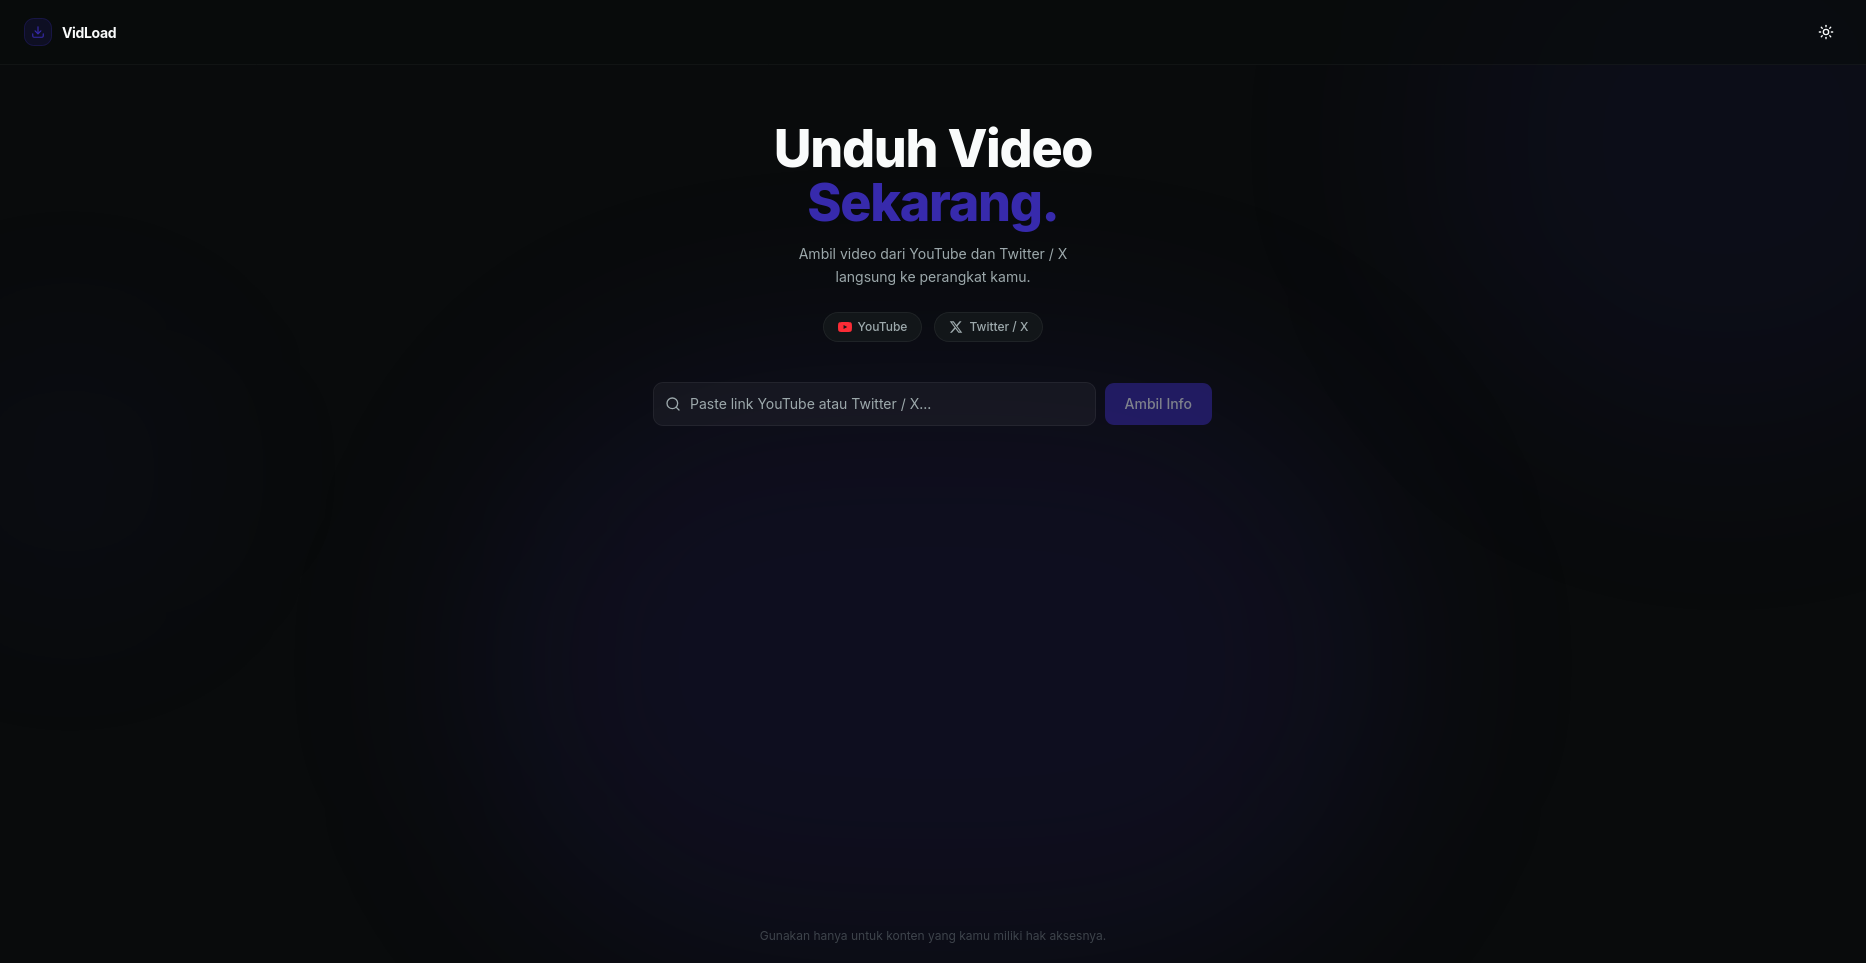
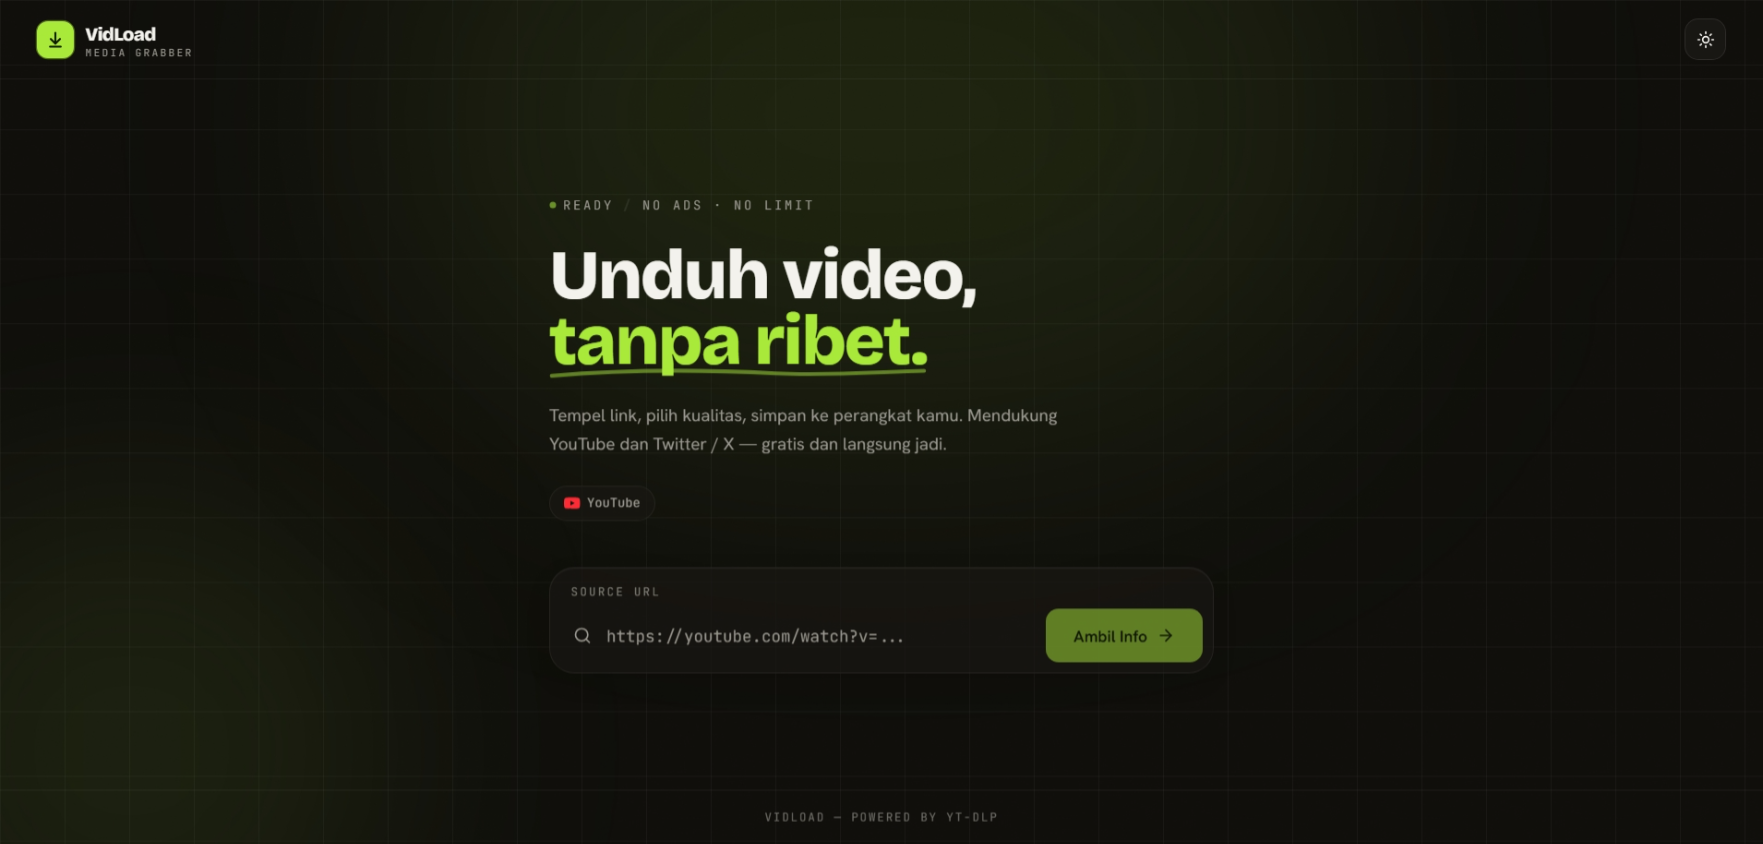
add new project

diff --git a/components/Hero.tsx b/components/Hero.tsx
@@ -125,9 +125,53 @@ export default function Hero() {
         {/* Project Showcase Section */}
         <div>
           <h2 className="text-2xl font-semibold mb-6 border-b border-neutral-700 pb-2">
-            Project Showcase
+            Projects
           </h2>
           <div className="grid grid-cols-1 md:grid-cols-2 gap-6">
+            <div className="border border-neutral-700 rounded-lg p-4 hover:border-neutral-500 transition-colors">
+              <div className="relative w-full h-32 bg-neutral-800 rounded mb-4 overflow-hidden">
+                <Image
+                  src="/beam-ss.png"
+                  alt="Beam Screenshot"
+                  fill
+                  className="object-cover"
+                />
+              </div>
+              <h3 className="text-lg font-medium mb-2">Beam</h3>
+              <p className="text-sm text-neutral-400 mb-3">
+                Send files directly between two devices over WebRTC. The browser
+                does the transfer peer-to-peer, the server only brokers the
+                WebRTC handshake. No uploads, no database, no files ever stored
+                on a server.
+              </p>
+              <div className="flex flex-wrap gap-2 mb-3">
+                <span className="px-2 py-1 bg-neutral-800 text-xs rounded">
+                  Next.js
+                </span>
+                <span className="px-2 py-1 bg-neutral-800 text-xs rounded">
+                  Node.js
+                </span>
+                <span className="px-2 py-1 bg-neutral-800 text-xs rounded">
+                  Websocket
+                </span>
+              </div>
+              <div className="flex gap-2">
+                <a
+                  href="https://beam.zenio.id"
+                  target="_blank"
+                  className="text-xs border border-neutral-600 px-3 py-1 rounded hover:bg-white hover:text-black transition-colors"
+                >
+                  Live Demo <ArrowUpRight className="w-3 h-3 inline ml-1" />
+                </a>
+                <a
+                  href="https://github.com/deardosatria7"
+                  target="_blank"
+                  className="text-xs border border-neutral-600 px-3 py-1 rounded hover:bg-white hover:text-black transition-colors"
+                >
+                  GitHub <ArrowUpRight className="w-3 h-3 inline ml-1" />
+                </a>
+              </div>
+            </div>
 
             <div className="border border-neutral-700 rounded-lg p-4 hover:border-neutral-500 transition-colors">
               <div className="relative w-full h-32 bg-neutral-800 rounded mb-4 overflow-hidden">
@@ -165,6 +209,13 @@ export default function Hero() {
                   className="text-xs border border-neutral-600 px-3 py-1 rounded hover:bg-white hover:text-black transition-colors"
                 >
                   Live Demo <ArrowUpRight className="w-3 h-3 inline ml-1" />
+                </a>
+                <a
+                  href="https://github.com/deardosatria7"
+                  target="_blank"
+                  className="text-xs border border-neutral-600 px-3 py-1 rounded hover:bg-white hover:text-black transition-colors"
+                >
+                  GitHub <ArrowUpRight className="w-3 h-3 inline ml-1" />
                 </a>
               </div>
             </div>
@@ -259,37 +310,6 @@ export default function Hero() {
                 >
                   GitHub <ArrowUpRight className="w-3 h-3 inline ml-1" />
                 </a>
-              </div>
-            </div>
-
-            <div className="border border-neutral-700 rounded-lg p-4 hover:border-neutral-500 transition-colors">
-              <div className="relative w-full h-32 bg-neutral-800 rounded mb-4 overflow-hidden">
-                <Image
-                  src="/cetar-ampersada.png"
-                  alt="CETAR AMPersada Screenshot"
-                  fill
-                  className="object-cover"
-                />
-              </div>
-              <h3 className="text-lg font-medium mb-2">CETAR AMPersada</h3>
-              <p className="text-sm text-neutral-400 mb-3">
-                Internal web application developed for a spesific company to
-                manage and monitor purchases, inventory levels, and sales
-                transactions.
-              </p>
-              <div className="flex flex-wrap gap-2 mb-3">
-                <span className="px-2 py-1 bg-neutral-800 text-xs rounded">
-                  Next.js
-                </span>
-                <span className="px-2 py-1 bg-neutral-800 text-xs rounded">
-                  PostgreSQL
-                </span>
-                <span className="px-2 py-1 bg-neutral-800 text-xs rounded">
-                  Supabase
-                </span>
-                <span className="px-2 py-1 bg-neutral-800 text-xs rounded">
-                  Git
-                </span>
               </div>
             </div>
           </div>